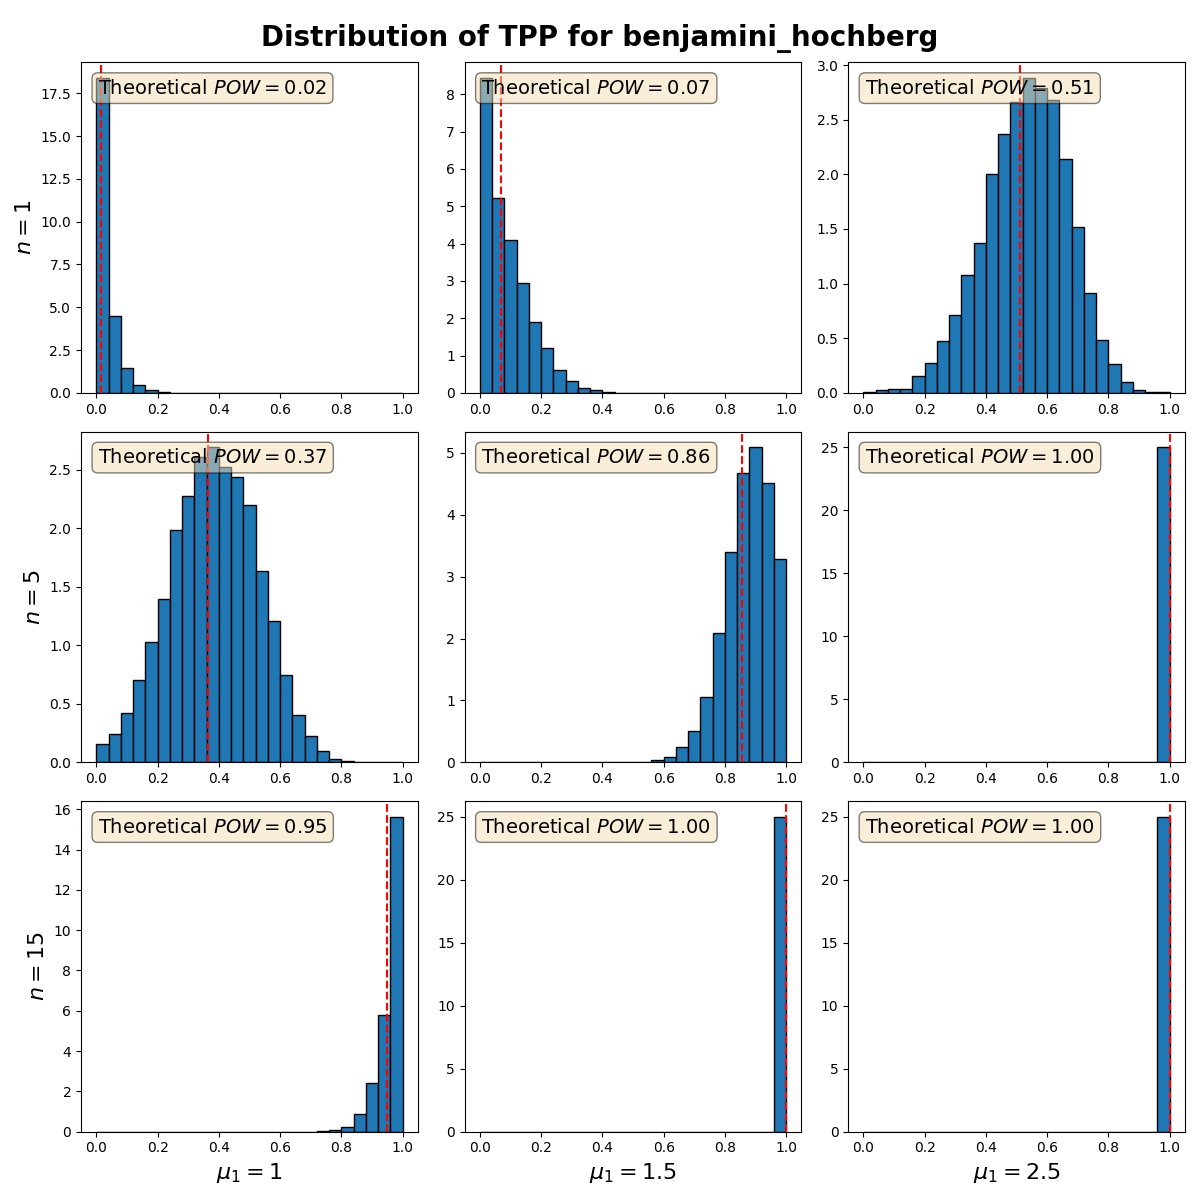
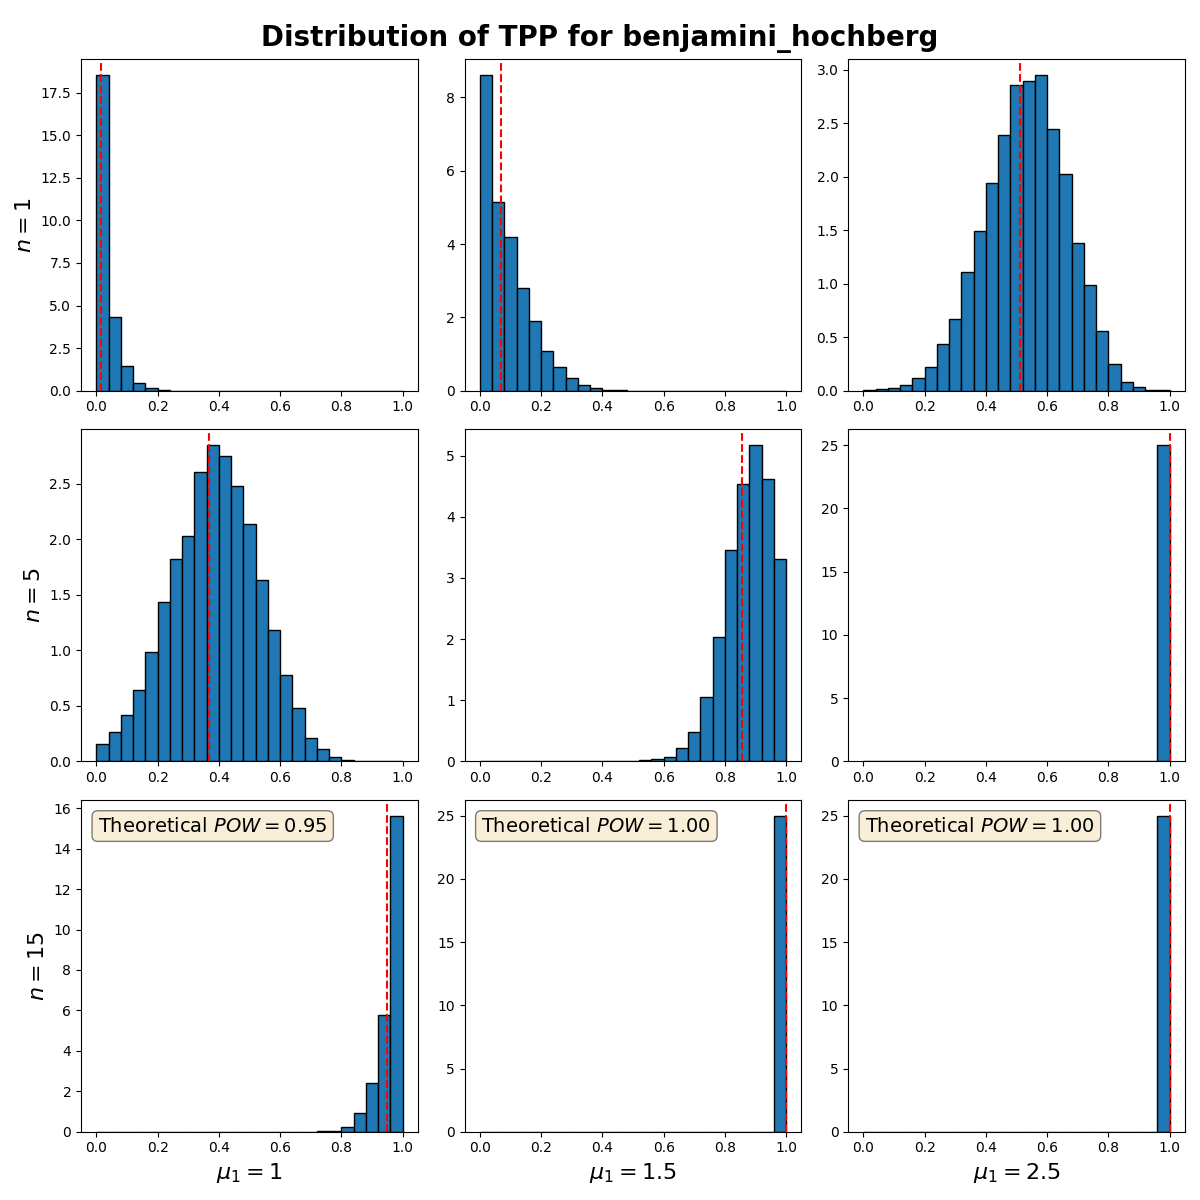
Plot true and empirical CDF of FDP

diff --git a/main.py b/main.py
@@ -1,4 +1,4 @@
-from src.hypotheses import z_test, eFDP, eFWE, eTPP, FDR_bh, POW_bh_z_test
+from src.hypotheses import z_test, eFDP, eFWE, eTPP, FDR_bh, POW_bh_z_test, F_FDP_hp_z_test
 from src.utils import get_pvalues_z_test, get_t_statistics_z_test, F0_unif, F1_z_test
 
 import os
@@ -20,9 +20,10 @@ figure_1 = './figures/pvalues_h0.png'
 figure_2 = './figures/pvalues_h1.png'
 figures_3 = ['./figures/FWER_bonferroni.png', './figures/FWER_holm_bonferroni.png', './figures/FWER_hochberg.png', './figures/FWER_benjamini_hochberg.png']
 figures_4 = ['./figures/FDR_bonferroni.png', './figures/FDR_holm_bonferroni.png', './figures/FDR_hochberg.png', './figures/FDR_benjamini_hochberg.png']
-figures_5 = ['./figures/POW_bonferroni.png', './figures/POW_holm_bonferroni.png', './figures/POW_hochberg.png', './figures/POW_benjamini_hochberg.png']
+figures_5 = ['./figures/FDR_bonferroni_cumulative.png', './figures/FDR_holm_bonferroni_cumulative.png', './figures/FDR_hochberg_cumulative.png', './figures/FDR_benjamini_hochberg_cumulative.png']
+figures_6 = ['./figures/POW_bonferroni.png', './figures/POW_holm_bonferroni.png', './figures/POW_hochberg.png', './figures/POW_benjamini_hochberg.png']
 
-if os.path.isfile(figure_1):
+if not os.path.isfile(figure_1):
     m0 = 10000
     mu0 = 0
     mu0_ = np.ones(m0) * mu0
@@ -43,7 +44,7 @@ if os.path.isfile(figure_1):
     fig.tight_layout()
     fig.savefig(figure_1)
 
-if os.path.isfile(figure_2):
+if not os.path.isfile(figure_2):
     m1 = 10000
     mu0 = 0
     mu1 = [1, 1.5, 2.5]
@@ -70,7 +71,7 @@ if os.path.isfile(figure_2):
     plt.tight_layout()
     plt.savefig(figure_2)
 
-if os.path.isfile(figures_3[0]) or not os.path.isfile(figures_4[0]):
+if not os.path.isfile(figures_3[0]) or not os.path.isfile(figures_4[0]):
     alpha = 0.05
     m = 1000
     pi0 = 0.5
@@ -116,12 +117,13 @@ if os.path.isfile(figures_3[0]) or not os.path.isfile(figures_4[0]):
         fig = figs4[k][0]
         if k == 3:
             fig.suptitle(fr'Distribution of FDP for {algorithm} with theoretical FDR = {FDR_bh(pi0, alpha):.3f}')
+            fig.legend(*figs4[k][1][0][0].get_legend_handles_labels())
         else:
             fig.suptitle(fr'Distribution of FDP for {algorithm}')
         fig.tight_layout()
         fig.savefig(figures_4[k])
 
-if os.path.isfile(figures_5[0]):
+if not os.path.isfile(figures_5[0]) or not os.path.isfile(figures_6[0]):
     alpha = 0.05
     m = 50
     pi0 = 0.5
@@ -129,23 +131,36 @@ if os.path.isfile(figures_5[0]):
     mu1 = [1, 1.5, 2.5]
     n = [1, 5, 15]
     reps = 10000
+    interval = np.concatenate((np.linspace(0, alpha * 6, 21), np.linspace(alpha * 6, 1, 6)[1:]))
 
     figs5 = [plt.subplots(3, 3, figsize=(12, 12)) for i in range(4)]
+    figs6 = [plt.subplots(3, 3, figsize=(12, 12)) for i in range(4)]
     for i, n_ in enumerate(n):
         for j, mu1_ in enumerate(mu1):
             results = z_test(m, pi0, mu0, mu1_, n=n_, reps=reps, alpha=alpha)
             for k, algorithm in enumerate(['bonferroni', 'holm_bonferroni', 'hochberg', 'benjamini_hochberg']):
-                etpp = eTPP(results['true'], results[algorithm])
-                epow = etpp.mean()
+                efdp = eFDP(results['true'], results[algorithm])
+                efdr = efdp.mean()
                 ax = figs5[k][1][i][j]
-                ax.hist(etpp, bins=25, range=(0, 1), density=True, edgecolor='black')
-                ax.axvline(x=epow, color='r', linestyle='dashed')
-                # ax.axvline(x=alpha, color='k', linestyle='dashed')
+                ax.hist(efdp, bins=50, range=(0, 1), density=True, cumulative=True, edgecolor='black', label='empirical CDF')
                 if j == 0:
                     ax.set_ylabel(fr'$n = {n_}$')
                 if i == 2:
                     ax.set_xlabel(fr'$\mu_1 = {mu1_}$')
                 if k == 3:
+                    true_dist = [F_FDP_hp_z_test(x, alpha, m, pi0, mu0, mu1_, n_) for x in interval]
+                    ax.plot(interval, true_dist, color='red', label='true CDF', linewidth=2.5, linestyle='dashed')
+
+                etpp = eTPP(results['true'], results[algorithm])
+                epow = etpp.mean()
+                ax = figs6[k][1][i][j]
+                ax.hist(etpp, bins=25, range=(0, 1), density=True, edgecolor='black')
+                ax.axvline(x=epow, color='r', linestyle='dashed')
+                if j == 0:
+                    ax.set_ylabel(fr'$n = {n_}$')
+                if i == 2:
+                    ax.set_xlabel(fr'$\mu_1 = {mu1_}$')
+
                     tpow = POW_bh_z_test(alpha, m, pi0, mu0, mu1_, n_)
                     textstr = fr'Theoretical $POW = {tpow:.2f}$'
                     props = dict(boxstyle='round', facecolor='wheat', alpha=0.5)
@@ -153,6 +168,16 @@ if os.path.isfile(figures_5[0]):
 
     for k, algorithm in enumerate(['bonferroni', 'holm_bonferroni', 'hochberg', 'benjamini_hochberg']):
         fig = figs5[k][0]
-        fig.suptitle(fr'Distribution of TPP for {algorithm}')
+        if k == 3:
+            fig.suptitle(fr'Distribution of FDP for {algorithm} with theoretical FDR = {FDR_bh(pi0, alpha):.3f}')
+            ax = figs5[k][1][0][2]
+            ax.legend(*ax.get_legend_handles_labels(), loc='center')
+        else:
+            fig.suptitle(fr'Distribution of FDP for {algorithm}')
         fig.tight_layout()
         fig.savefig(figures_5[k])
+
+        fig = figs6[k][0]
+        fig.suptitle(fr'Distribution of TPP for {algorithm}')
+        fig.tight_layout()
+        fig.savefig(figures_6[k])

diff --git a/src/hypotheses.py b/src/hypotheses.py
@@ -1,5 +1,5 @@
 from src.algorithms import bonferroni, holm_bonferroni, hochberg, benjamini_hochberg
-from src.utils import get_means, get_t_statistics_z_test, get_pvalues_z_test, G, F0_unif, F1_z_test, psi
+from src.utils import get_means, get_t_statistics_z_test, get_pvalues_z_test, G, F0_unif, F1_z_test, psi, D
 
 import numpy as np
 from scipy.special import comb
@@ -56,6 +56,7 @@ def FDR_bh(pi0=0.5, alpha=0.05):
     return pi0 * alpha
 
 
+# TODO: unstable for large m (> 50), extremely slow for very large m (~ 10^3)
 def POW_bh_z_test(alpha, m, pi0, mu0, mu1, n):
     def F1(t):
         return F1_z_test(t, mu0, mu1, n)
@@ -66,4 +67,22 @@ def POW_bh_z_test(alpha, m, pi0, mu0, mu1, n):
     s = 0
     for k in range(1, m + 1):
         s += F1(alpha * k / m) * comb(m - 1, k - 1) * G_(alpha * k / m) ** (k - 1) * psi((1 - G_(alpha * np.arange(m, k, -1) / m)))
+    return s
+
+
+# TODO: naive implementation
+def F_FDP_hp_z_test(x, alpha, m, pi0, mu0, mu1, n):
+    def F1(t):
+        return F1_z_test(t, mu0, mu1, n)
+
+    def G_(t):
+        return G(t, pi0, F0_unif, F1)
+
+    s = 0
+    t = alpha * (1 + np.arange(m)) / m
+    p = G_(t)
+
+    for k in range(0, m + 1):
+        for j in range(int(x * k) + 1):
+            s += comb(k, j) * (pi0 * F0_unif(t[k - 1]) / G_(t[k - 1])) ** j * ((1 - pi0) * F1(t[k - 1]) / G_(t[k - 1])) ** (k - j) * D(p, m, k)
     return s

diff --git a/src/utils.py b/src/utils.py
@@ -53,7 +53,6 @@ def np_cache(*args, **kwargs):
     return decorator
 
 
-# TODO: can vectorize?
 @np_cache(maxsize=None)
 def psi(t):
     """ Bolshev's recursion """
@@ -67,3 +66,7 @@ def psi(t):
         c = comb(k, i) * (1 - t[k - i]) ** i * psi(t[:(k - i)])
         s -= c
     return s.astype(float)
+
+
+def D(t, m, k):
+    return comb(m, k) * t[k - 1] ** k * psi(1 - t[k:m][::-1])  # 0 <= k <= m
